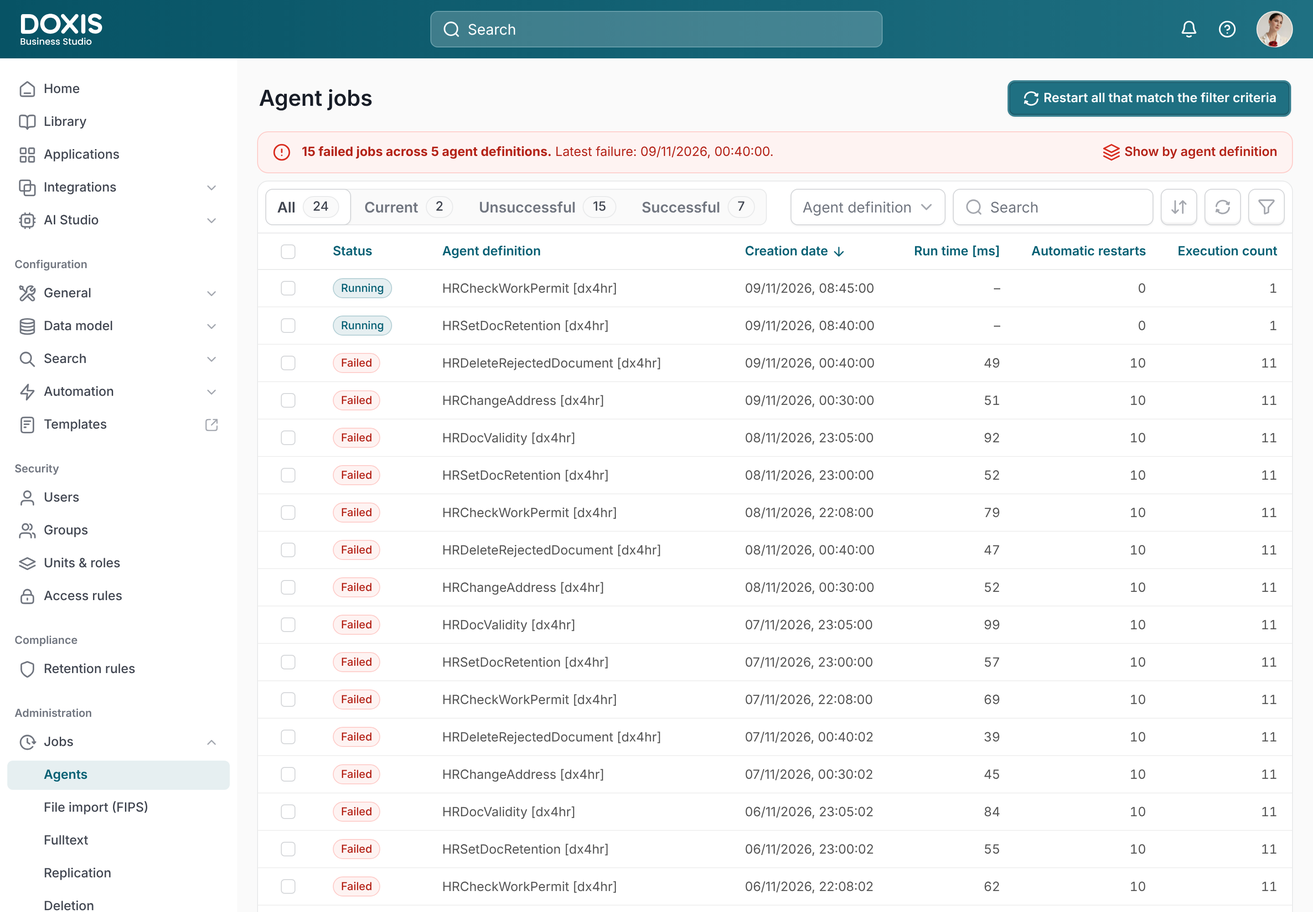
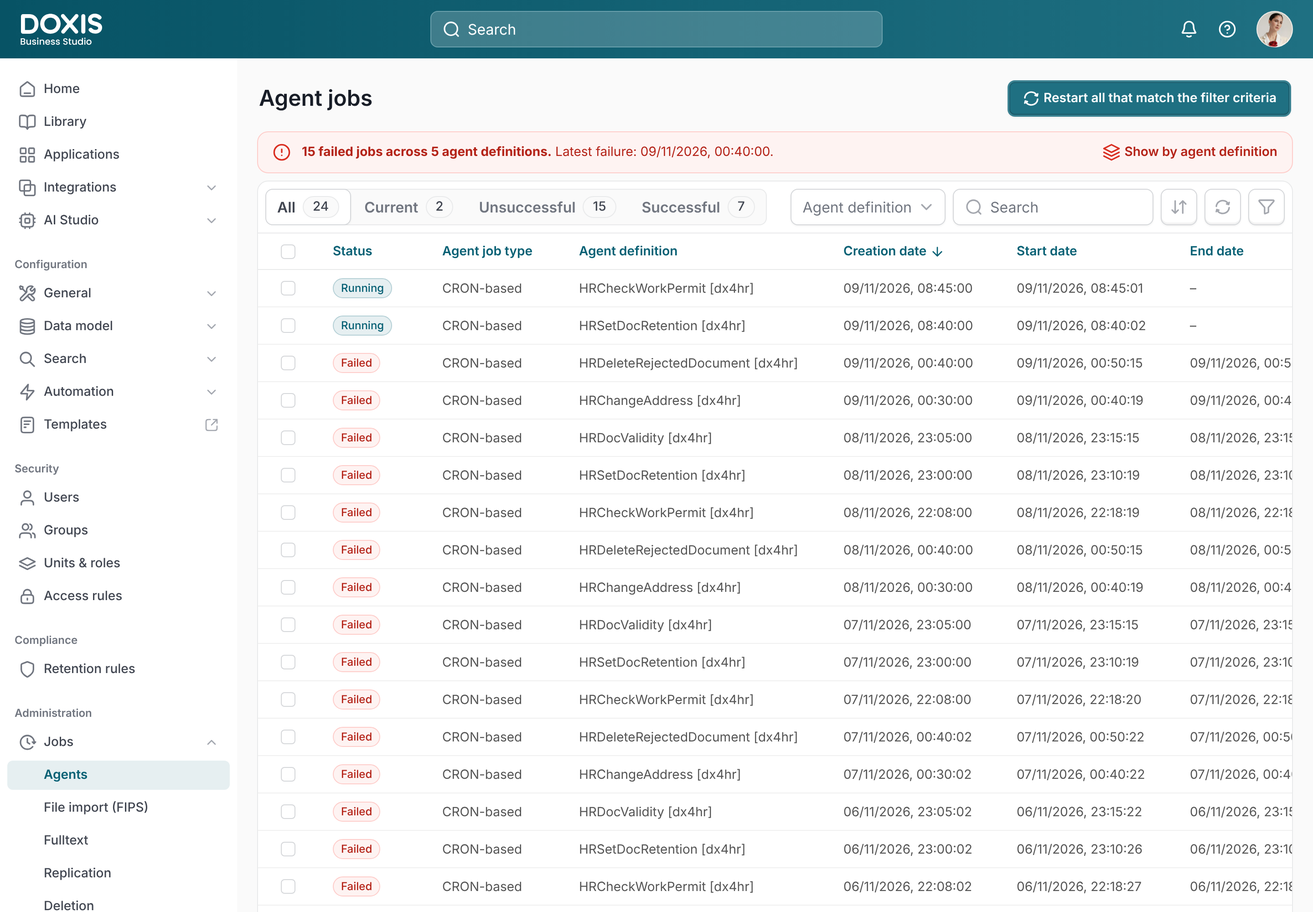
Add files via upload

diff --git a/js/app.js b/js/app.js
@@ -16,7 +16,7 @@
     jobType: '', parent: '',
     selected: {}, open: {}, openGroups: {}, overrides: {},
     defOpen: false, defQ: '', sortOpen: false, filtersOpen: false, draft: null,
-    navOpen: false, searchOpen: false, toast: null
+    navOpen: false, searchOpen: false, toast: null, detailsId: null
   };
 
   /* ---------- helpers ---------- */
@@ -45,7 +45,7 @@
   function compute() {
     var jobs = window.SEED.map(function (r, i) {
       return { id: i, status: state.overrides[i] || r[0], def: r[1], c: r[2], st: r[3], en: r[4], ms: r[5], restarts: r[6], execs: r[7] };
-    });
+    }).filter(function (j) { return j.status !== 'deleted'; });
     var defKeys = Object.keys(state.defs);
     var q = state.q.trim().toLowerCase();
     var base = jobs.filter(function (j) {
@@ -168,40 +168,81 @@
     }).join('') + '<button class="link-btn" data-action="clear-all">Clear all</button></div>';
   }
 
-  function viewBulk() {
+  function viewBulk(total) {
     var n = Object.keys(state.selected).length;
-    if (!n) return '';
-    return '<div class="bulk"><span class="sel"><strong>' + n + '</strong> items selected</span>' +
+    // Always rendered (shows the total when nothing is selected) so selecting a row never shifts the table
+    if (!n) return '<div class="bulk"><span class="sel"><strong>' + total + '</strong> agent jobs</span></div>';
+    var one = n === 1 ? Object.keys(state.selected)[0] : null;
+    var open = one != null && !!state.open[one];
+    return '<div class="bulk"><span class="sel"><strong>' + n + '</strong> ' + (n === 1 ? 'item' : 'items') + ' selected</span>' +
+      '<span class="bulk-spacer"></span>' +
       '<button class="link-btn" data-action="restart-selected">' + icon('refresh-cw-05') + 'Restart</button>' +
-      '<button class="link-btn" data-action="clear-selection">' + icon('x-close') + 'Clear selection</button></div>';
+      '<button class="link-btn" data-action="delete-selected">' + icon('trash-01') + 'Delete</button>' +
+      (one != null ? '<button class="link-btn" data-action="toggle-details">' + icon('eye') + 'Display details</button>' : '') +
+      '</div>';
+  }
+
+  var COLS = window.JOB_COLUMNS;
+  var GRID = '66px ' + COLS.map(function (c) { return c[2] + 'px'; }).join(' ');
+  var CARD = { status: 'c-status', def: 'c-def', created: 'c-created', runtime: 'c-run', restarts: 'c-restarts', execs: 'c-exec' };
+  var MLABEL = { created: 'Created', runtime: 'Run time', restarts: 'Restarts', execs: 'Executions' };
+  function jobValues(j) {
+    var failed = j.status === 'failed';
+    return {
+      type: 'CRON-based', def: j.def + ' [dx4hr]', created: fmt(j.c), started: fmt(j.st), ended: fmt(j.en),
+      runtime: j.ms == null ? '–' : j.ms, restarts: j.restarts, execs: j.execs, sync: false, group: '', seq: '',
+      prio: 0, parent: true, client: '',
+      msg: failed ? 'javax.script.ScriptException: org.codehaus.groovy.control.MultipleCompilationErrorsException' : '',
+      trigger: j.def, ret: j.status === 'running' ? '' : (failed ? 1 : 0), restartable: failed,
+      service: 'Agent@localhost [dx4]', pclass: '', task: '', id: (window.JOB_IDS || [])[j.id] || ''
+    };
   }
 
   function viewRow(j) {
     var sel = !!state.selected[j.id];
     var op = !!state.open[j.id];
+    var v = jobValues(j);
+    var cells = COLS.map(function (c) {
+      var key = c[0], kind = c[4] || '', align = c[3] || 'left';
+      var cls = 'td ellipsis ' + (CARD[key] || 'c-extra') + (align === 'right' ? ' num' : align === 'center' ? ' center' : '');
+      var inner;
+      if (kind === 'badge') inner = '<span class="badge ' + j.status + '">' + META[j.status] + '</span>';
+      else if (kind === 'check') inner = v[key] === true ? '<span role="img" aria-label="Yes" class="check-cell">' + icon('check', 16) + '</span>' : '';
+      else inner = (MLABEL[key] ? '<span class="mlabel">' + MLABEL[key] + '</span>' : '') + esc(v[key]) + (key === 'runtime' && j.ms != null ? '<span class="mlabel" style="margin:0 0 0 2px">ms</span>' : '');
+      var title = kind ? '' : ' title="' + esc(v[key]) + '"';
+      return '<div class="' + cls + '"' + title + '>' + inner + '</div>';
+    }).join('');
     var html = '<div class="row' + (sel ? ' selected' : '') + '">' +
-      '<div class="tr data">' +
+      '<label class="tr data" title="Double-click to display details">' +
         '<div class="td cbcell"><input type="checkbox" class="cb" data-action="row-select" data-v="' + j.id + '"' + (sel ? ' checked' : '') + ' aria-label="Select ' + esc(j.def) + ' job created ' + fmt(j.c) + '"></div>' +
-        '<div class="td c-status"><span class="badge ' + j.status + '">' + META[j.status] + '</span></div>' +
-        '<div class="td ellipsis c-def">' + esc(j.def) + ' [dx4hr]</div>' +
-        '<div class="td c-created"><span class="mlabel">Created</span>' + fmt(j.c) + '</div>' +
-        '<div class="td num c-run"><span class="mlabel">Run time</span>' + (j.ms == null ? '–' : j.ms + '<span class="mlabel" style="margin:0 0 0 2px">ms</span>') + '</div>' +
-        '<div class="td num c-restarts"><span class="mlabel">Restarts</span>' + j.restarts + '</div>' +
-        '<div class="td num c-exec"><span class="mlabel">Executions</span>' + j.execs + '</div>' +
-      '</div>';
-    if (op) {
-      html += '<div class="details"><dl>' +
-        '<div><dt>Agent job type</dt><dd>CRON-based</dd></div>' +
-        '<div><dt>Start date</dt><dd>' + fmt(j.st) + '</dd></div>' +
-        '<div><dt>End date</dt><dd>' + fmt(j.en) + '</dd></div>' +
-        '<div><dt>Synchronous</dt><dd>No</dd></div>' +
-        '<div><dt>Group</dt><dd>–</dd></div>' +
-        '<div><dt>Sequence number</dt><dd>–</dd></div>' +
-        '<div><dt>Priority</dt><dd>–</dd></div>' +
-        '<div class="wide"><dt>Last error</dt><dd>' + (j.status === 'failed' ? '[Error message from job log]' : '–') + '</dd></div>' +
-        '</dl><a class="btn-ghost" href="#">View job log</a></div>';
-    }
+        cells +
+      '</label>';
     return html + '</div>';
+  }
+
+  function viewDetails(d) {
+    if (state.detailsId == null) return '';
+    var j = d.jobs.filter(function (x) { return x.id === state.detailsId; })[0];
+    if (!j) return '';
+    var v = jobValues(j);
+    var rows = COLS.map(function (c) {
+      var key = c[0], val = v[key];
+      if (key === 'status') val = META[j.status];
+      else if (c[4] === 'check') val = val ? 'Yes' : 'No';
+      var empty = val === '' || val == null || val === '–';
+      return '<div class="dp-row"><dt>' + esc(c[1]) + '</dt><dd' + (empty ? ' class="dp-empty"' : '') + '>' + (key === 'status' ? '<span class="badge ' + j.status + '">' + META[j.status] + '</span>' : (empty ? '–' : esc(val))) + '</dd></div>';
+    }).join('');
+    return '<button class="overlay" data-action="details-close" tabindex="-1" aria-label="Close job details"></button>' +
+      '<aside class="drawer details-panel" role="dialog" aria-modal="true" aria-labelledby="dp-title">' +
+        '<div class="drawer-head dp-head">' +
+          '<h2 id="dp-title">' + esc(j.def) + ' [dx4hr]</h2><p>Created ' + fmt(j.c) + '</p>' +
+          '<button class="close" data-action="details-close" aria-label="Close">' + icon('x-close', 20) + '</button></div>' +
+        '<div class="drawer-body dp-body"><dl>' + rows + '</dl></div>' +
+        '<div class="drawer-foot dp-foot"><span class="spacer"></span><div class="actions">' +
+          '<button class="btn btn-lg" data-action="details-close">Close</button>' +
+          (j.status === 'failed' ? '<button class="btn btn-primary btn-lg" data-action="details-restart">' + icon('refresh-cw-05') + 'Restart job</button>' : '') +
+        '</div></div>' +
+      '</aside>';
   }
 
   function viewTable(d) {
@@ -209,9 +250,12 @@
     var allSel = rows.length > 0 && rows.every(function (j) { return state.selected[j.id]; });
     var head = '<div class="tr thead" role="row">' +
       '<div class="th cbcell"><input type="checkbox" class="cb" data-action="select-all"' + (allSel ? ' checked' : '') + ' aria-label="Select all visible jobs"></div>' +
-      '<div class="th">Status</div><div class="th">Agent definition</div>' +
-      '<div class="th"><button class="th-sort" data-action="seq" data-v="' + (state.sortDesc ? 'asc' : 'desc') + '" aria-label="Sort by creation date, currently ' + (state.sortDesc ? 'newest first' : 'oldest first') + '">Creation date' + icon(state.sortDesc ? 'arrow-down' : 'arrow-up', 16) + '</button></div>' +
-      '<div class="th num">Run time [ms]</div><div class="th num">Automatic restarts</div><div class="th num">Execution count</div></div>';
+      COLS.map(function (c) {
+        var align = c[3] || 'left';
+        var cls = 'th' + (align === 'right' ? ' num' : align === 'center' ? ' center' : '');
+        if (c[4] === 'sort') return '<div class="' + cls + '"><button class="th-sort" data-action="seq" data-v="' + (state.sortDesc ? 'asc' : 'desc') + '" aria-label="Sort by creation date, currently ' + (state.sortDesc ? 'newest first' : 'oldest first') + '">' + esc(c[1]) + icon(state.sortDesc ? 'arrow-down' : 'arrow-up', 16) + '</button></div>';
+        return '<div class="' + cls + '">' + esc(c[1]) + '</div>';
+      }).join('') + '</div>';
 
     var body;
     if (!rows.length) {
@@ -235,7 +279,7 @@
     } else {
       body = rows.map(viewRow).join('');
     }
-    return '<div class="table-wrap"><div class="table">' + head + body + '</div></div>';
+    return '<div class="table-wrap"><div class="table" style="--cols:' + GRID + '">' + head + body + '</div></div>';
   }
 
   function viewFooter(d) {
@@ -310,7 +354,7 @@
   function viewToast() {
     if (!state.toast) return '';
     return '<div class="toast" role="status">' + icon('check-circle', 20, 'ok') +
-      '<div class="body"><strong>' + esc(state.toast.title) + '</strong><span>The jobs will start with the next agent cycle.</span>' +
+      '<div class="body"><strong>' + esc(state.toast.title) + '</strong><span>' + esc(state.toast.text || 'The jobs will start with the next agent cycle.') + '</span>' +
       '<div class="acts"><button class="link-btn gray" data-action="toast-dismiss">Dismiss</button><button class="link-btn" data-action="undo">Undo</button></div></div>' +
       '<button class="close" data-action="toast-dismiss" aria-label="Close">' + icon('x-close', 20) + '</button></div>';
   }
@@ -339,10 +383,10 @@
             '<button class="btn btn-primary" data-action="restart-matching"' + (failedMatching.length ? '' : ' disabled') + '>' + icon('refresh-cw-05') +
               '<span class="label-long">Restart all that match the filter criteria</span><span class="label-short">Restart ' + failedMatching.length + ' failed jobs</span></button></div>' +
           '<div class="content">' + banner +
-            '<section class="card" aria-label="Agent jobs table">' + viewToolbar(d) + viewBulk() + viewTable(d) + viewFooter(d) + '</section>' +
+            '<section class="card" aria-label="Agent jobs table">' + viewToolbar(d) + viewBulk(d.rows.length) + viewTable(d) + viewFooter(d) + '</section>' +
           '</div>' +
         '</main>' +
-      '</div>' + viewDrawer() + viewToast();
+      '</div>' + viewDrawer() + viewDetails(d) + viewToast();
 
     if (key) {
       var el = root.querySelector('[data-input="' + key + '"]');
@@ -351,6 +395,7 @@
   }
 
   /* ---------- events ---------- */
+  var lastRowClick = { id: null, t: 0 };
   root.addEventListener('click', function (e) {
     var t = e.target.closest('[data-action]');
     if (!t) return;
@@ -391,7 +436,16 @@
         var n = {};
         if (!allSel) d.rows.forEach(function (j) { n[j.id] = true; });
         return set({ selected: n });
-      case 'row-select': d = Object.assign({}, state.selected); if (d[v]) delete d[v]; else d[v] = true; return set({ selected: d });
+      case 'row-select':
+        // The table re-renders on every click, so a double-click is detected here (two clicks on the same row within 400ms)
+        var now = Date.now();
+        if (lastRowClick.id === v && now - lastRowClick.t < 400) {
+          lastRowClick = { id: null, t: 0 };
+          var only = {}; only[v] = true;
+          return set({ selected: only, detailsId: +v });
+        }
+        lastRowClick = { id: v, t: now };
+        d = Object.assign({}, state.selected); if (d[v]) delete d[v]; else d[v] = true; return set({ selected: d });
       case 'row-open': d = Object.assign({}, state.open); d[v] = !d[v]; return set({ open: d });
       case 'row-restart': return queue([+v]);
       case 'group-toggle': d = Object.assign({}, state.openGroups); d[v] = !d[v]; return set({ openGroups: d });
@@ -403,7 +457,16 @@
         return queue(d.rows.filter(function (j) { return j.status === 'failed'; }).map(function (j) { return j.id; }));
       case 'restart-selected':
         return queue(Object.keys(state.selected).map(Number).filter(function (id) { return (state.overrides[id] || window.SEED[id][0]) === 'failed'; }));
-      case 'clear-selection': return set({ selected: {} });
+      case 'clear-selection': return set({ selected: {}, open: {} });
+      case 'delete-selected':
+        var prevO = state.overrides, nextO = Object.assign({}, prevO), delIds = Object.keys(state.selected);
+        delIds.forEach(function (id) { nextO[id] = 'deleted'; });
+        return set({ overrides: nextO, selected: {}, open: {}, toast: { title: delIds.length + (delIds.length === 1 ? ' job deleted' : ' jobs deleted'), text: 'You can undo this for a few seconds.', prev: prevO } });
+      case 'toggle-details':
+        var sid = Object.keys(state.selected)[0];
+        return sid != null ? set({ detailsId: +sid }) : undefined;
+      case 'details-close': return set({ detailsId: null });
+      case 'details-restart': return queue([state.detailsId]);
       case 'group-failing':
         d = compute();
         var o = {};
@@ -415,6 +478,18 @@
     }
   });
 
+  // Double-click a row to open its details side panel
+  root.addEventListener('dblclick', function (e) {
+    var row = e.target.closest('.tr.data');
+    if (!row) return;
+    var cb = row.querySelector('[data-action="row-select"]');
+    if (!cb) return;
+    var id = +cb.getAttribute('data-v');
+    var sel = {}; sel[id] = true;
+    if (window.getSelection) window.getSelection().removeAllRanges();
+    set({ selected: sel, detailsId: id });
+  });
+
   root.addEventListener('input', function (e) {
     var key = e.target.getAttribute('data-input');
     if (!key) return;
@@ -424,6 +499,7 @@
 
   document.addEventListener('keydown', function (e) {
     if (e.key === 'Escape') {
+      if (state.detailsId != null) return set({ detailsId: null });
       if (state.filtersOpen) return set({ filtersOpen: false });
       if (state.defOpen || state.sortOpen) return set({ defOpen: false, sortOpen: false });
       if (state.navOpen) return set({ navOpen: false });

diff --git a/css/styles.css b/css/styles.css
@@ -156,8 +156,12 @@ a { color: var(--brand-dark); }
 
 /* ---------- Table ---------- */
 .table-wrap { overflow-x: auto; border-top: 1px solid var(--border-subtle); font-family: var(--font-table); }
-.table { min-width: 920px; }
-.tr { display: grid; grid-template-columns: 66px 120px minmax(220px, 1fr) 180px 132px 160px 144px; align-items: center; min-height: 40px; }
+.table { width: max-content; min-width: 100%; }
+.tr { display: grid; grid-template-columns: var(--cols); align-items: center; min-height: 40px; }
+.td.center, .th.center { text-align: center; }
+.check-cell { display: inline-flex; vertical-align: middle; color: var(--brand); }
+.check-cell .icon { stroke-width: 2.5; }
+.thead .th { white-space: nowrap; }
 .thead { border-bottom: 1px solid var(--border-subtle); color: var(--brand-dark); font-weight: 600; }
 .thead .th-sort { border: 0; background: transparent; padding: 0; color: inherit; font-weight: 600; display: inline-flex; align-items: center; gap: 4px; }
 .td, .th { padding: 0 16px; min-width: 0; }
@@ -165,8 +169,11 @@ a { color: var(--brand-dark); }
 .td.cbcell, .th.cbcell { display: flex; justify-content: center; align-self: stretch; align-items: center; padding: 0; }
 .td.ellipsis { white-space: nowrap; overflow: hidden; text-overflow: ellipsis; }
 .row { border-bottom: 1px solid var(--border-row); background: #FFFFFF; color: var(--fg-cell); line-height: 17px; }
-.row.selected { background: var(--bg-canvas); }
-.row.selected .cbcell { background: var(--bg-subtle); }
+.row.selected { background: var(--bg-subtle); }
+.tr.data { cursor: pointer; user-select: none; }
+.row:not(.selected):hover { background: var(--bg-canvas); }
+.bulk-spacer { flex: 1; }
+.bulk-hint { color: var(--fg-tertiary); line-height: 24px; }
 .row-actions { display: flex; justify-content: flex-end; gap: 2px; padding-right: 8px; }
 .row-actions button { width: 28px; height: 28px; padding: 4px; border: 0; border-radius: 6px; background: transparent; color: var(--fg-quaternary); display: flex; align-items: center; justify-content: center; }
 .row-actions button:hover { background: var(--bg-subtle); color: var(--fg-secondary); }
@@ -187,10 +194,10 @@ a { color: var(--brand-dark); }
 .group-head { min-height: 48px; display: flex; flex-wrap: wrap; align-items: center; gap: 16px; padding: 6px 16px 6px 21px; background: var(--bg-canvas); border-bottom: 1px solid var(--border-subtle); }
 .group-head .toggle { display: flex; align-items: center; gap: 8px; border: 0; background: transparent; padding: 4px 0; color: var(--fg-primary); font-weight: 600; text-align: left; min-width: 0; }
 .group-head .toggle .icon { color: var(--fg-tertiary); }
-.group-head .last { margin-left: auto; color: var(--fg-tertiary); }
+.group-head .last { color: var(--fg-tertiary); }
 .group-head .link-btn { font-family: var(--font); }
 
-.empty { padding: 48px 16px; display: flex; flex-direction: column; align-items: center; gap: 4px; text-align: center; font-family: var(--font); }
+.empty { position: sticky; left: 0; width: 100vw; max-width: 1100px; padding: 48px 16px; display: flex; flex-direction: column; align-items: center; gap: 4px; text-align: center; font-family: var(--font); }
 .empty strong { font-size: 16px; line-height: 24px; }
 .empty span { color: var(--fg-secondary); }
 .empty .btn { margin-top: 12px; }
@@ -242,8 +249,20 @@ a { color: var(--brand-dark); }
 .drawer-foot .spacer { flex: 1; }
 .drawer-foot .actions { display: flex; gap: 12px; }
 
+/* ---------- Job details side panel ---------- */
+.dp-head { min-height: 0; display: flex; flex-direction: column; align-items: flex-start; gap: 6px; padding-bottom: 20px; border-bottom: 1px solid var(--border-subtle); }
+.dp-head h2 { word-break: break-word; }
+.dp-head p { margin: 0; }
+.dp-body { gap: 0; padding-top: 8px; }
+.dp-body dl { margin: 0; }
+.dp-row { display: grid; grid-template-columns: 180px minmax(0, 1fr); gap: 16px; padding: 12px 0; border-bottom: 1px solid var(--border-row); }
+.dp-row dt { font-weight: 500; color: var(--fg-secondary); word-break: break-word; }
+.dp-row dd { margin: 0; color: var(--fg-primary); word-break: break-word; font-variant-numeric: tabular-nums; }
+.dp-row dd.dp-empty { color: var(--fg-quaternary); }
+@media (max-width: 720px) { .dp-row { grid-template-columns: 1fr; gap: 2px; } }
+
 /* ---------- Toast ---------- */
-.toast { position: fixed; right: 24px; bottom: 24px; z-index: 50; width: 400px; max-width: calc(100% - 32px); background: #FFFFFF; border: 1px solid var(--border); border-radius: 12px; box-shadow: var(--shadow-lg); padding: 16px; display: flex; gap: 16px; }
+.toast { position: fixed; right: 24px; top: calc(var(--topbar-h) + 24px); z-index: 60; width: 400px; max-width: calc(100% - 32px); background: #FFFFFF; border: 1px solid var(--border); border-radius: 12px; box-shadow: var(--shadow-lg); padding: 16px; display: flex; gap: 16px; }
 .toast .icon.ok { color: #079455; }
 .toast .icon.info { color: var(--fg-quaternary); }
 .toast .body { flex: 1; display: flex; flex-direction: column; gap: 4px; }
@@ -266,7 +285,9 @@ a { color: var(--brand-dark); }
 
 /* Tablets & phones: table rows become cards */
 @media (max-width: 900px) {
-  .table { min-width: 0; }
+  .table { width: auto; min-width: 0; }
+  .tr.data .c-extra { display: none; }
+  .empty { position: static; width: auto; }
   .thead { display: none; }
   .tr.data { grid-template-columns: 32px 1fr auto; grid-template-areas: "cb def def" "cb status status" "cb created created" "cb meta meta"; row-gap: 6px; padding: 12px 8px 12px 12px; align-items: start; }
   .tr.data .td { padding: 0; }
@@ -316,7 +337,7 @@ a { color: var(--brand-dark); }
   .drawer-foot .actions { flex: 1 1 100%; }
   .drawer-foot .actions .btn { flex: 1; }
   .two-col { grid-template-columns: 1fr; }
-  .toast { right: 12px; bottom: 12px; }
+  .toast { right: 12px; top: calc(var(--topbar-h) + 12px); }
 }
 .label-short { display: none; }
 
@@ -332,3 +353,23 @@ a { color: var(--brand-dark); }
 }
 
 @media (prefers-reduced-motion: reduce) { * { transition: none !important; } }
+
+/* Details side panel uses the large drawer width (640px) */
+.drawer.details-panel { width: 640px; }
+.details-panel .dp-row { grid-template-columns: 240px minmax(0, 1fr); }
+@media (max-width: 720px) { .drawer.details-panel { width: 100%; } .details-panel .dp-row { grid-template-columns: 1fr; } }
+
+/* Table scrolls inside its card so the horizontal scrollbar is always on screen,
+   and the scrollbar is styled so it stays visible (no auto-hiding overlay scrollbars). */
+.table-wrap { overflow: auto; max-height: max(400px, calc(100vh - 360px)); }
+/* Chrome 121+ and Safari ignore ::-webkit-scrollbar styles (and fall back to auto-hiding
+   overlay scrollbars) when scrollbar-width/scrollbar-color are set, so only Firefox gets those. */
+@supports not selector(::-webkit-scrollbar) { .table-wrap { scrollbar-width: thin; scrollbar-color: #C4C7CC #FAFAFA; } }
+.table-wrap::-webkit-scrollbar-button { display: none; }
+.table-wrap::-webkit-scrollbar { width: 10px; height: 10px; }
+.table-wrap::-webkit-scrollbar-track { background: #FAFAFA; }
+.table-wrap::-webkit-scrollbar-thumb { background: #C4C7CC; border-radius: 9999px; border: 2px solid #FAFAFA; }
+.table-wrap::-webkit-scrollbar-thumb:hover { background: #A4A7AE; }
+.table-wrap::-webkit-scrollbar-corner { background: #FAFAFA; }
+.thead { position: sticky; top: 0; z-index: 2; background: #FFFFFF; }
+@media (max-width: 900px) { .table-wrap { max-height: none; overflow: visible; } }

diff --git a/js/data.js b/js/data.js
@@ -28,6 +28,31 @@ window.SEED = [
   ['success', 'HRChangeAddress', '2026-11-05T00:30:00', '2026-11-05T00:30:01', '2026-11-05T00:30:01', 46, 0, 1]
 ];
 
+/* Job IDs, one per SEED row (same order). */
+window.JOB_IDS = [
+  '2b4335b9-ad32-42d0-8d8a-d51cfd399579', '9a82dfc4-36a0-4a83-828f-ee270fbe2468', 'f51be6e0-4d1b-479a-9c04-5d18b8022a38',
+  '1d21f26c-c640-4cc5-8d9c-222b88d5fc16', 'db1f6137-58cd-4381-b235-e1c1ec4a598b', 'fdc5ed07-2368-4133-83ce-08f0c41a295d',
+  'b4d1f4ea-0686-4171-a4db-46b6959affef', '1aa31e75-a229-4821-a872-9787c60219f7', '268b36aa-3809-4611-818a-8419fc000f66',
+  '4a5de3f4-0987-4e55-be8b-1d6e9402608d', 'bd5608c1-9eb9-4402-9506-fd9df11edf18', '2ccc80ae-805f-42c2-97ac-4e3a4b5d111e',
+  '5ff8d0d1-461b-4a1c-ab5d-0450c1bbef4f', '3bd884c6-4fae-4c0f-b38a-01be32882d1c', 'f4c98bc4-ee67-4694-b591-b8784fa490f4',
+  '7c1e2a90-3b5d-4f61-9e2a-6d0f8b4c1a73', 'a93f05d2-71c8-4b0e-8f14-2e6b9d07c5e1', 'c0d47e61-9a2b-4e3f-b5c8-71f2a6d9e084',
+  'e5b82f17-04c9-4d6a-a3e1-9f7c2b8d5a60', '6f3a9c04-b81e-47d2-9c5f-0a1e8d3b7f29', '8d2e6b13-5f07-4a9c-b4e2-c39f1a6d0e85',
+  '0b7f4a28-c6e3-4d15-8a9b-5e2d7c1f3b46', '3e9c1d75-2a84-4f0b-b6d3-8c5a0e7f2d19', '95a0e3c8-7d16-4b2f-a8e5-1f4c9b6d3a07'
+];
+
+/* Table columns, in the order of the current Business Studio screen.
+   [key, label, width px, align, kind ('badge' | 'sort' | 'check')] */
+window.JOB_COLUMNS = [
+  ['status', 'Status', 120, 'left', 'badge'], ['type', 'Agent job type', 150], ['def', 'Agent definition', 290],
+  ['created', 'Creation date', 190, 'left', 'sort'], ['started', 'Start date', 190], ['ended', 'End date', 190],
+  ['runtime', 'Run time [ms]', 140, 'right'], ['restarts', 'Automatic restarts', 170, 'right'], ['execs', 'Execution count', 150, 'right'],
+  ['sync', 'Synchronous', 130, 'center', 'check'], ['group', 'Group', 100], ['seq', 'Sequence number', 160, 'right'],
+  ['prio', 'Priority', 100, 'right'], ['parent', 'Parent completed', 160, 'center', 'check'], ['client', 'AGENT_EVENT_OBJECT_CLIENT_ID', 300],
+  ['msg', 'Execution message', 320], ['trigger', 'Trigger', 240], ['ret', 'Return value', 130, 'right'],
+  ['restartable', 'Restartable', 130, 'center', 'check'], ['service', 'Agent Runtime Service', 230], ['pclass', 'Process class', 150],
+  ['task', 'Task', 120], ['id', 'ID', 360]
+];
+
 window.NAV = [
   { title: '', items: [['Home', 'home-line', ''], ['Library', 'book-open-01', ''], ['Applications', 'grid-01', ''], ['Integrations', 'intersect-square', 'chevron-down'], ['AI Studio', 'cpu-chip-01', 'chevron-down']] },
   { title: 'Configuration', items: [['General', 'tool-02', 'chevron-down'], ['Data model', 'database-02', 'chevron-down'], ['Search', 'search-sm', 'chevron-down'], ['Automation', 'zap', 'chevron-down'], ['Templates', 'file-02', 'link-external-02']] },

diff --git a/js/icons.js b/js/icons.js
@@ -1,5 +1,7 @@
 // Untitled UI icon outlines extracted from the Doxis Figma library (24x24, stroke icons).
 window.ICONS = {
+ "eye": "M2.42 11.29C3.55 9.5 6.9 5 12 5C17.11 5 20.46 9.5 21.58 11.29M21.58 12.71C20.46 14.5 17.11 19 12 19C6.9 19 3.55 14.5 2.42 12.71M21.58 11.29C21.72 11.5 21.78 11.61 21.82 11.78M21.58 12.71C21.72 12.5 21.78 12.39 21.82 12.22M21.82 11.78C21.85 11.9 21.85 12.1 21.82 12.22M2.42 11.29C2.28 11.5 2.22 11.61 2.18 11.78M2.42 12.71C2.28 12.5 2.22 12.39 2.18 12.22M2.18 11.78C2.15 11.9 2.15 12.1 2.18 12.22M15 12C15 13.66 13.66 15 12 15C10.34 15 9 13.66 9 12C9 10.34 10.34 9 12 9C13.66 9 15 10.340 15 12",
+ "trash-01": "M11.2 2L12.8 2M16 5.2L16 6M8 6L8 5.2M12.8 2C13.92 2 14.48 2 14.91 2.22M16 5.2C16 4.08 16 3.52 15.78 3.09M14.91 2.22C15.28 2.41 15.59 2.72 15.78 3.09M11.2 2C10.08 2 9.52 2 9.09 2.22M8 5.2C8 4.08 8 3.52 8.22 3.09M9.09 2.22C8.72 2.41 8.41 2.72 8.22 3.09M10 11.5L10 16.5M14 11.5L14 16.5M3 6L21 6M19 6L19 17.2M14.2 22L9.8 22M5 17.2L5 6M9.8 22C8.12 22 7.28 22 6.64 21.67M5 17.2C5 18.88 5 19.72 5.33 20.36M6.64 21.67C6.07 21.39 5.61 20.93 5.33 20.36M19 17.2C19 18.88 19 19.72 18.67 20.36M14.2 22C15.88 22 16.72 22 17.360 21.67M18.67 20.36C18.39 20.93 17.93 21.39 17.36 21.67",
  "menu-01": "M3 12L21 12M3 6L21 6M3 18L21 18",
  "search-lg": "M21 21L17.5 17.5M20 11.5C20 16.19 16.19 20 11.5 20C6.81 20 3 16.19 3 11.5C3 6.81 6.81 3 11.5 3C16.19 3 20 6.81 20 11.5",
  "bell-01": "M18 8C18 6.41 17.37 4.88 16.24 3.76C15.12 2.63 13.59 2 12 2C10.41 2 8.88 2.630 7.76 3.76C6.63 4.88 6 6.41 6 8C6 11.09 5.22 13.21 4.35 14.61M5.39 17L18.61 17M19.65 14.61C18.78 13.21 18 11.09 18 8M18.61 17C19.81 17 20.41 17 20.54 16.9M19.65 14.61C20.38 15.79 20.75 16.38 20.74 16.54M20.54 16.9C20.69 16.79 20.72 16.72 20.74 16.54M4.35 14.61C3.62 15.79 3.25 16.38 3.26 16.54M5.39 17C4.19 17 3.59 17 3.46 16.9M3.26 16.54C3.28 16.72 3.31 16.79 3.46 16.9M12 22C10.99 22 10.06 21.62 9.35 21M14.65 21C13.94 21.62 13.01 22 12 22",
